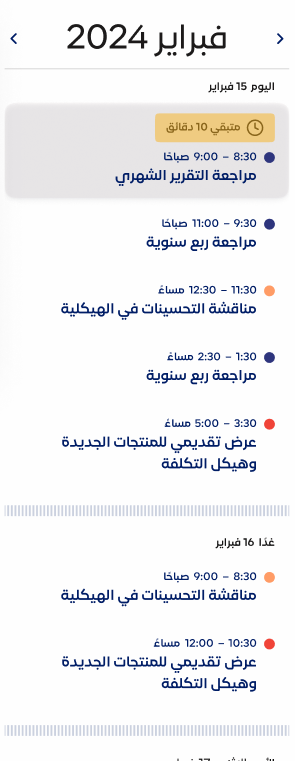
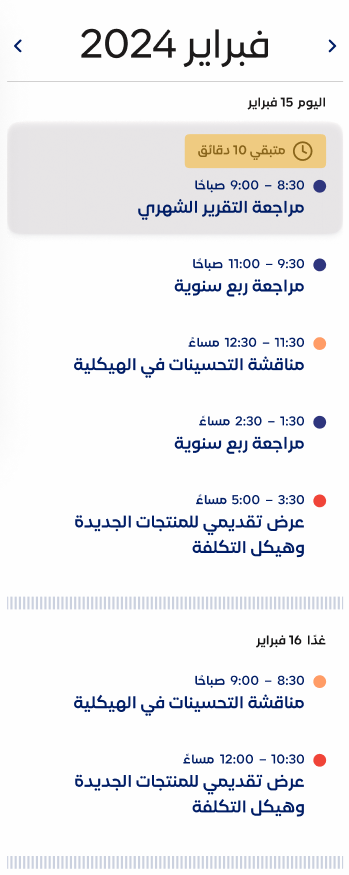
drafting home + calendar image

diff --git a/src/pages/Home.jsx b/src/pages/Home.jsx
@@ -13,14 +13,14 @@ import Amin from '../assets/images/alamin.png'
 import CarouselOne from '../assets/images/carousel-one.png'
 import CarouselTwo from '../assets/images/carousel-two.png'
 import CarouselThree from '../assets/images/carousel-three.png'
-
+import CalendarImage from '../assets/images/calendar.png'
 
 
 const Home = () => {
   return (
     <div className='flex align-top gap-4 py-5'>
       <div>
-        Calendar
+        <img src={CalendarImage} />
       </div>
       <div className='flex flex-col gap-7'>
         <Card title='اجتماعيات' link='/social'>
